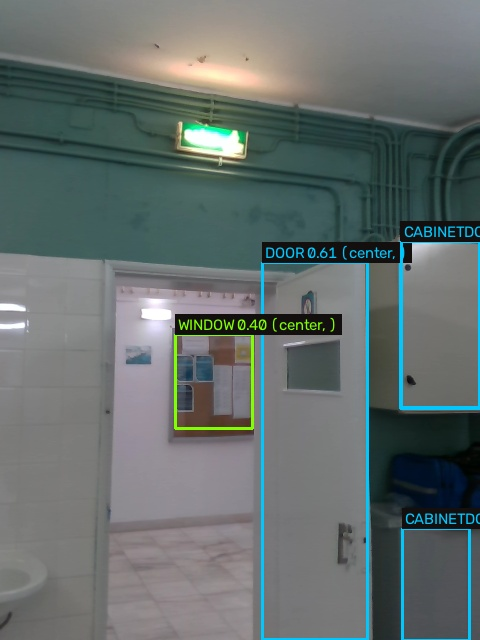
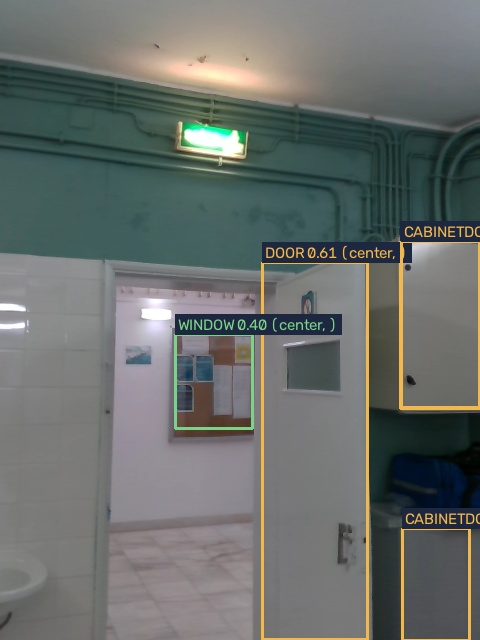
made few cahnges

Changed region(s): [[0.3438, 0.3438, 1.0, 1.0], [0.8125, 0.7812, 1.0, 1.0]]

diff --git a/ui/static/index.html b/ui/static/index.html
@@ -6,9 +6,14 @@
   <title>AI Vision Assistant — Assistive Spatial Navigation & Test Lab</title>
   <meta name="description" content="Assistive vision system for blind users with continuous object detection, natural voice interaction, proactive hazard monitoring, Test Lab, and model evaluation.">
   <meta name="theme-color" content="#00f0ff">
+  <meta name="mobile-web-app-capable" content="yes">
   <meta name="apple-mobile-web-app-capable" content="yes">
   <meta name="apple-mobile-web-app-status-bar-style" content="black-translucent">
-  <link rel="manifest" href="/static/manifest.json">
+  <meta name="apple-mobile-web-app-title" content="Vision Assistant">
+  <link rel="icon" type="image/x-icon" href="/static/favicon.ico">
+  <link rel="icon" type="image/png" sizes="192x192" href="/static/icon-192.png">
+  <link rel="apple-touch-icon" href="/static/icon-192.png">
+  <link rel="manifest" href="/manifest.json">
   <link rel="stylesheet" href="/static/style.css">
 </head>
 <body class="vision-theme">
@@ -609,5 +614,14 @@
   </div>
 
   <script src="/static/app.js"></script>
+  <script>
+    if ('serviceWorker' in navigator) {
+      window.addEventListener('load', () => {
+        navigator.serviceWorker.register('/sw.js').catch((err) => {
+          console.warn('Service Worker registration skipped:', err);
+        });
+      });
+    }
+  </script>
 </body>
 </html>

diff --git a/ui/static/sw.js b/ui/static/sw.js
@@ -1,0 +1,44 @@
+// Simple Service Worker for AI Vision Assistant PWA
+const CACHE_NAME = 'vision-assistant-v1';
+const STATIC_ASSETS = [
+  '/',
+  '/static/index.html',
+  '/static/style.css',
+  '/static/app.js',
+  '/static/manifest.json',
+  '/static/icon-192.png',
+  '/static/icon-512.png',
+  '/static/favicon.ico'
+];
+
+self.addEventListener('install', (event) => {
+  event.waitUntil(
+    caches.open(CACHE_NAME).then((cache) => {
+      return cache.addAll(STATIC_ASSETS).catch((err) => {
+        console.warn('Pre-cache error (non-fatal):', err);
+      });
+    })
+  );
+  self.skipWaiting();
+});
+
+self.addEventListener('activate', (event) => {
+  event.waitUntil(
+    caches.keys().then((keys) => {
+      return Promise.all(
+        keys.filter((key) => key !== CACHE_NAME).map((key) => caches.delete(key))
+      );
+    })
+  );
+  self.clients.claim();
+});
+
+self.addEventListener('fetch', (event) => {
+  // Pass network requests through, with fallback to cache for static resources
+  if (event.request.method !== 'GET') return;
+  event.respondWith(
+    fetch(event.request).catch(() => {
+      return caches.match(event.request);
+    })
+  );
+});

diff --git a/ui/backend/app_server.py b/ui/backend/app_server.py
@@ -181,6 +181,22 @@ async def lifespan(app: FastAPI):
     global camera_streamer, detection_worker, voice_manager, hazard_monitor
     print("\n[AI Vision Server] Starting up...")
 
+    # Suppress spurious Windows Proactor connection-reset errors (WinError 10054)
+    # when remote clients (e.g. phone or browser tabs) close or reload connections.
+    try:
+        loop = asyncio.get_running_loop()
+        def _proactor_exception_handler(loop, context):
+            exc = context.get("exception")
+            if isinstance(exc, (ConnectionResetError, ConnectionAbortedError)):
+                return
+            msg = context.get("message", "")
+            if "_call_connection_lost" in msg or "10054" in str(context):
+                return
+            loop.default_exception_handler(context)
+        loop.set_exception_handler(_proactor_exception_handler)
+    except Exception:
+        pass
+
     # Initialize and start camera streamer
     camera_streamer = CameraStreamer(preferred_index=0)
     camera_streamer.start()
@@ -263,6 +279,20 @@ def get_index():
     return FileResponse(index_path)
 
 
+@app.get("/manifest.json")
+def get_manifest():
+    """Serves PWA Web App Manifest."""
+    manifest_path = os.path.join(PROJECT_ROOT, "ui", "static", "manifest.json")
+    return FileResponse(manifest_path, media_type="application/manifest+json")
+
+
+@app.get("/sw.js")
+def get_service_worker():
+    """Serves PWA Service Worker with root scope."""
+    sw_path = os.path.join(PROJECT_ROOT, "ui", "static", "sw.js")
+    return FileResponse(sw_path, media_type="application/javascript")
+
+
 # -------------------------------------------------------------
 # Video Streaming Endpoint (MJPEG)
 # -------------------------------------------------------------
@@ -276,32 +306,35 @@ def generate_mjpeg_stream():
     global camera_streamer, detection_worker
     target_frame_interval = 0.040  # ~25 FPS max streaming interval
 
-    while True:
-        t_start = time.perf_counter()
+    try:
+        while True:
+            t_start = time.perf_counter()
 
-        raw_frame = None
-        if camera_streamer:
-            raw_frame = camera_streamer.get_raw_frame()
+            raw_frame = None
+            if camera_streamer:
+                raw_frame = camera_streamer.get_raw_frame()
 
-        if raw_frame is not None:
-            if detection_worker:
-                _, detections, *_ = detection_worker.get_latest_data()
-                if detections:
-                    raw_frame = detection_worker.annotate_frame(raw_frame, detections)
+            if raw_frame is not None:
+                if detection_worker:
+                    _, detections, *_ = detection_worker.get_latest_data()
+                    if detections:
+                        raw_frame = detection_worker.annotate_frame(raw_frame, detections)
 
-            # Fast JPEG encode (quality 70 = crisp HUD text, 50% smaller payload, no buffer lag)
-            ret, buffer = cv2.imencode(".jpg", raw_frame, [cv2.IMWRITE_JPEG_QUALITY, 70])
-            if ret:
-                frame_bytes = buffer.tobytes()
-                yield (
-                    b"--frame\r\n"
-                    b"Content-Type: image/jpeg\r\n\r\n" + frame_bytes + b"\r\n"
-                )
+                # Fast JPEG encode (quality 70 = crisp HUD text, 50% smaller payload, no buffer lag)
+                ret, buffer = cv2.imencode(".jpg", raw_frame, [cv2.IMWRITE_JPEG_QUALITY, 70])
+                if ret:
+                    frame_bytes = buffer.tobytes()
+                    yield (
+                        b"--frame\r\n"
+                        b"Content-Type: image/jpeg\r\n\r\n" + frame_bytes + b"\r\n"
+                    )
 
-        # Regulate stream rate
-        elapsed = time.perf_counter() - t_start
-        sleep_time = max(0.005, target_frame_interval - elapsed)
-        time.sleep(sleep_time)
+            # Regulate stream rate
+            elapsed = time.perf_counter() - t_start
+            sleep_time = max(0.005, target_frame_interval - elapsed)
+            time.sleep(sleep_time)
+    except (GeneratorExit, ConnectionResetError, BrokenPipeError, asyncio.CancelledError):
+        return
 
 
 @app.get("/video_feed")
@@ -778,10 +811,11 @@ async def websocket_telemetry(websocket: WebSocket):
 
             await websocket.send_text(json.dumps(payload))
             await asyncio.sleep(0.1)  # 10 Hz telemetry broadcast
-    except WebSocketDisconnect:
+    except (WebSocketDisconnect, ConnectionResetError, ConnectionAbortedError):
         pass
     except Exception as e:
-        print(f"[WebSocket] Disconnected: {e}")
+        if "10054" not in str(e):
+            print(f"[WebSocket] Disconnected: {e}")
     finally:
         receive_task.cancel()
         async with websocket_lock:

diff --git a/ui/backend/voice_manager.py b/ui/backend/voice_manager.py
@@ -41,7 +41,12 @@ WAKE_PATTERNS = [
     r"\bhigh\s+vision\b",
     r"\bhey\s+vison\b",
     r"\bhey\s+division\b",
-    r"\bhey\s+visual\b"
+    r"\bhey\s+visual\b",
+    r"\bwelcome\s+vision\b",
+    r"\bhello\s+vision\b",
+    r"\ba\s+vision\b",
+    r"\bay\s+vision\b",
+    r"\bokay?\s+vision\b"
 ]
 
 
